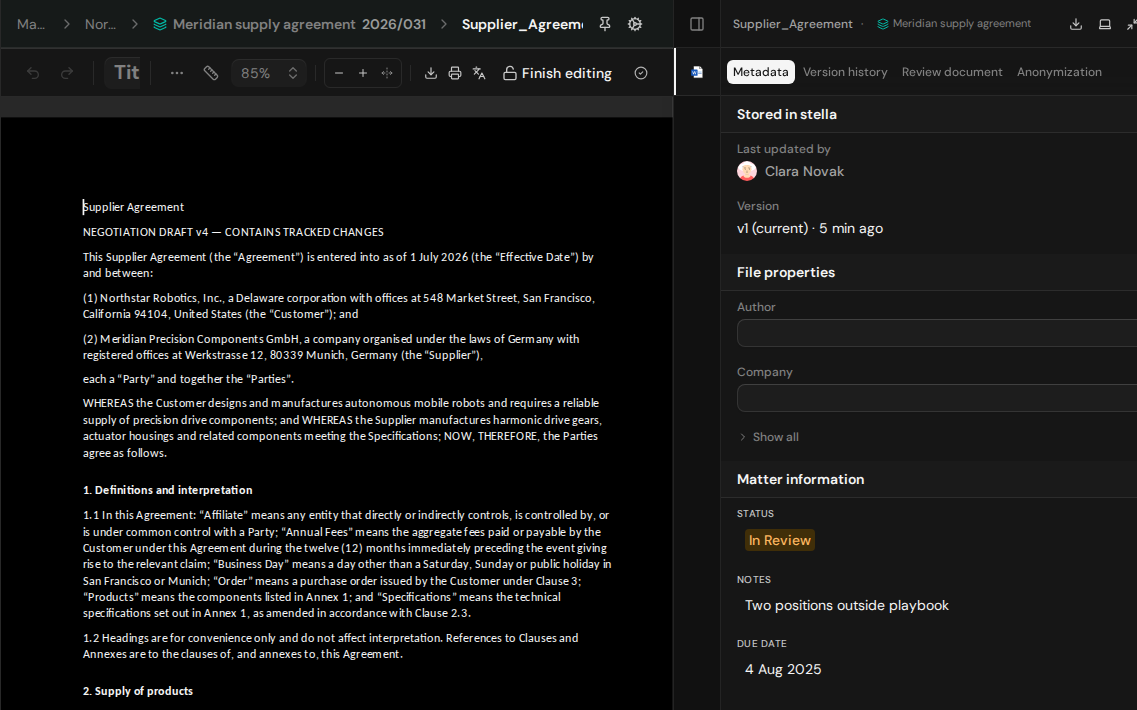
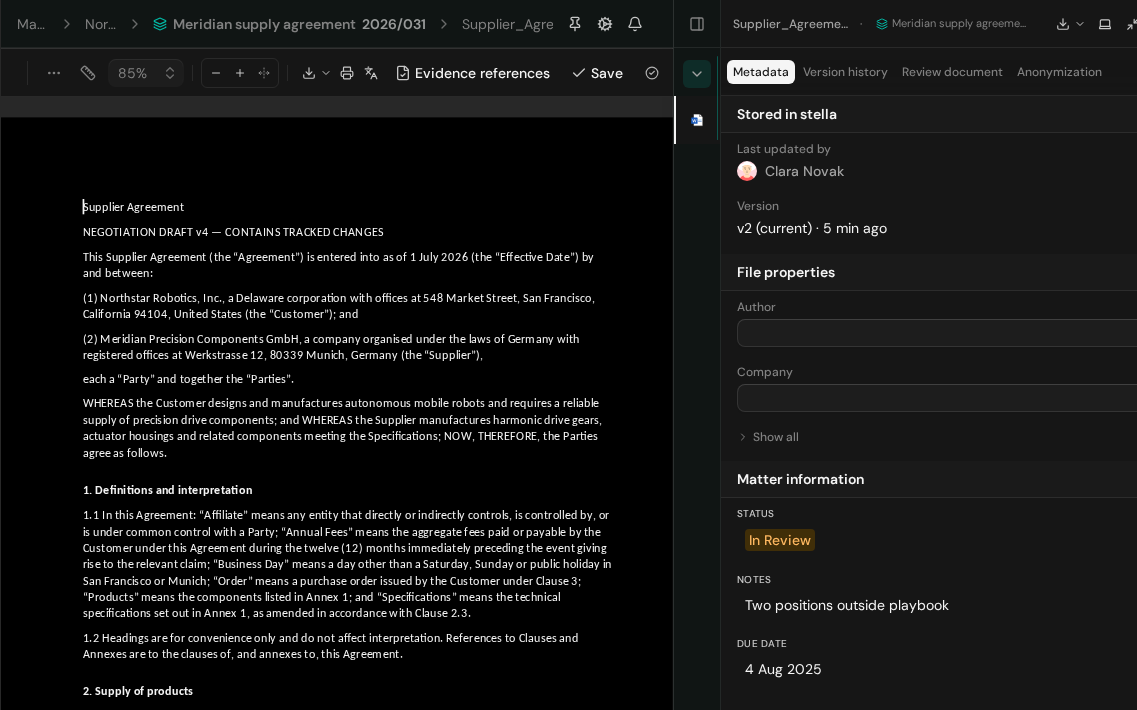
fix: unify matter document chrome (#3317)
## Summary\n\n- apply the active matter tint consistently across the top
bar, navigation rail, desktop inspector, and mobile inspector portal\n-
preserve that tint on maximized matter-chat routes without adding a
workspace request\n- widen and neutralize the docked document-chat veil
so it feathers into page content and reaches the viewport bottom\n-
update the deterministic dark editor screenshot for the chrome treatment

diff --git a/apps/web/src/routes/_protected.tsx b/apps/web/src/routes/_protected.tsx
@@ -6,7 +6,7 @@ import {
   useRef,
   useState,
 } from "react";
-import type { MouseEvent } from "react";
+import type { CSSProperties, MouseEvent } from "react";
 
 import { useHotkey } from "@tanstack/react-hotkeys";
 import {
@@ -48,6 +48,7 @@ import "@/features/inbox/signal-inspector-registration";
 import "@/features/statutes/provision-inspector-registration";
 import { ApiVersionMismatchBanner } from "@/components/api-version-mismatch-banner";
 import { AppSidebar } from "@/components/app-sidebar";
+import { resolveSidebarWorkspaceId } from "@/components/app-sidebar.logic";
 import { AppBreadcrumbs } from "@/components/breadcrumbs/app-breadcrumbs";
 import { ChatEditorProvider } from "@/components/chat-editor-provider";
 import { ChatMentionProviders } from "@/components/chat-mention-providers";
@@ -96,7 +97,10 @@ import {
   prefetchRouteQuery,
 } from "@/lib/react-query";
 import { useEffectiveHotkey } from "@/lib/use-effective-shortcuts";
-import { workspaceOptions } from "@/lib/workspaces/queries";
+import {
+  workspaceOptions,
+  workspacesNavigationOptions,
+} from "@/lib/workspaces/queries";
 import { loadAuthContext } from "@/routes/-auth-context";
 import { shouldForceSidebarCollapsed } from "@/routes/-inspector-pane-width";
 
@@ -107,6 +111,11 @@ const LazyInspectorPanel = lazy(
     })),
 );
 
+type MatterChromeStyle = CSSProperties & {
+  "--matter-background-tint": string;
+  "--matter-sidebar-tint": string;
+};
+
 // Visual shell for the inspector rail while the panel chunk is
 // loading. Mirrors the real rail's chrome (top toggle, bottom
 // "new chat") so the rail doesn't render as an empty strip during
@@ -116,14 +125,14 @@ const InspectorRailFallback = () => {
   const t = useTranslations();
 
   return (
-    <div className="bg-background flex h-full border-s shadow-lg">
+    <div className="flex h-full border-s bg-(--matter-background-tint) shadow-lg">
       <WorkspaceEndRail
         chatAction={{
           label: t("chat.newChat"),
           reason: t("common.loading"),
           status: "unavailable",
         }}
-        className="h-full"
+        className="h-full bg-(--matter-sidebar-tint)"
         label={t("inspector.title")}
         topAction={
           <span
@@ -330,7 +339,31 @@ function ProtectedComponent() {
     from: "/_protected/workspaces/$workspaceId",
     shouldThrow: false,
   });
-  const activeWorkspaceId = workspaceMatch?.params.workspaceId;
+  const workspaceChatMatch = useMatch({
+    from: "/_protected/chat/workspaces/$workspaceId/$threadId",
+    shouldThrow: false,
+  });
+  const activeWorkspaceId = resolveSidebarWorkspaceId({
+    chatWorkspaceId: workspaceChatMatch?.params.workspaceId,
+    workspaceId: workspaceMatch?.params.workspaceId,
+  });
+  const { data: workspaceNavigation } = useChromeQuery(
+    workspacesNavigationOptions(inspectorBroadcastOrganizationId),
+  );
+  const activeWorkspace = workspaceNavigation?.workspaces.find(
+    ({ id }) => id === activeWorkspaceId,
+  );
+  const activeMatterColor = activeWorkspaceId
+    ? resolveMatterColor(activeWorkspaceId, activeWorkspace?.color ?? null)
+    : null;
+  const matterChromeStyle: MatterChromeStyle = {
+    "--matter-background-tint": activeMatterColor
+      ? `color-mix(in srgb, ${activeMatterColor} 2%, var(--background))`
+      : "var(--background)",
+    "--matter-sidebar-tint": activeMatterColor
+      ? `color-mix(in srgb, ${activeMatterColor} 2%, var(--sidebar))`
+      : "var(--sidebar)",
+  };
   const inspectorPaneOpen = useInspectorTabsStore(
     (state) => state.tabs.length > 0 && !state.minimized,
   );
@@ -386,30 +419,36 @@ function ProtectedComponent() {
       key={`${inspectorBroadcastOrganizationId}:${inspectorBroadcastUserId}`}
       user={analyticsUser}
     >
-      <SidebarProvider forceCollapsed={forceSidebarCollapsed}>
-        <SidebarToggleHotkey />
-        <ChatMentionProviders>
-          <AIAvailabilityProvider>
-            <ChatEditorProvider>
-              <GlobalChatMentionRegistration />
-              <DragAndDropLiveRegion />
-              <WorkspaceFrame
-                composition="host-responsive"
-                endDock={<WorkspaceInspectorSidePanel />}
-                navigation={{ content: <AppSidebar />, mode: "responsive" }}
-                topBar={() => <ProtectedContent />}
-              >
-                <Outlet />
-              </WorkspaceFrame>
-              <CreateMatterDialog />
-              <AttachedTemplateUploadDialog />
-              <DocumentReferenceUploadDialog />
-              <ShortcutEchoHud />
-              <KeyboardShortcutsDialog />
-            </ChatEditorProvider>
-          </AIAvailabilityProvider>
-        </ChatMentionProviders>
-      </SidebarProvider>
+      <div className="contents" style={matterChromeStyle}>
+        <SidebarProvider forceCollapsed={forceSidebarCollapsed}>
+          <SidebarToggleHotkey />
+          <ChatMentionProviders>
+            <AIAvailabilityProvider>
+              <ChatEditorProvider>
+                <GlobalChatMentionRegistration />
+                <DragAndDropLiveRegion />
+                <WorkspaceFrame
+                  composition="host-responsive"
+                  endDock={
+                    <WorkspaceInspectorSidePanel
+                      matterChromeStyle={matterChromeStyle}
+                    />
+                  }
+                  navigation={{ content: <AppSidebar />, mode: "responsive" }}
+                  topBar={() => <ProtectedContent />}
+                >
+                  <Outlet />
+                </WorkspaceFrame>
+                <CreateMatterDialog />
+                <AttachedTemplateUploadDialog />
+                <DocumentReferenceUploadDialog />
+                <ShortcutEchoHud />
+                <KeyboardShortcutsDialog />
+              </ChatEditorProvider>
+            </AIAvailabilityProvider>
+          </ChatMentionProviders>
+        </SidebarProvider>
+      </div>
     </AuthenticatedUserProvider>
   );
 }
@@ -504,9 +543,6 @@ function ProtectedContent() {
     ...workspaceOptions(workspaceId ?? ""),
     enabled: !!workspaceId,
   });
-  const matterColor = workspaceId
-    ? resolveMatterColor(workspaceId, workspace?.color ?? null)
-    : null;
   const chromeActions = (
     <div
       className="ms-auto flex shrink-0 items-center gap-0.5"
@@ -564,19 +600,7 @@ function ProtectedContent() {
     <>
       <ApiVersionMismatchBanner />
       <SelfhostUpdateBanner />
-      <header
-        className={cn(
-          "flex h-12 shrink-0 items-center gap-2 overflow-hidden border-b px-4",
-          !matterColor && "bg-sidebar",
-        )}
-        style={
-          matterColor
-            ? {
-                backgroundColor: `color-mix(in srgb, ${matterColor} 2%, transparent)`,
-              }
-            : undefined
-        }
-      >
+      <header className="border-sidebar-border flex h-12 shrink-0 items-center gap-2 overflow-hidden border-b bg-(--matter-sidebar-tint) px-4">
         {isMobile && (
           <>
             <SidebarTrigger className="-ms-1" />
@@ -684,7 +708,11 @@ const getInspectorTabWorkspaceId = (
  * viewport height and the topbar doesn't need to leave room for
  * inspector chrome.
  */
-function WorkspaceInspectorSidePanel() {
+function WorkspaceInspectorSidePanel({
+  matterChromeStyle,
+}: {
+  matterChromeStyle: MatterChromeStyle;
+}) {
   const t = useTranslations();
   const { isMobile } = useSidebar();
   const projectMatch = useMatch({
@@ -783,6 +811,7 @@ function WorkspaceInspectorSidePanel() {
           className="h-dvh w-full max-w-none border-0 p-0 md:hidden"
           showCloseButton={false}
           side="inline-end"
+          style={matterChromeStyle}
         >
           <SheetHeader className="sr-only">
             <SheetTitle>{t("inspector.title")}</SheetTitle>

diff --git a/apps/web/src/components/app-sidebar.tsx b/apps/web/src/components/app-sidebar.tsx
@@ -132,7 +132,6 @@ import { detached } from "@/lib/detached";
 import { formatHotkeyForPlatform, NAV_KEY } from "@/lib/hotkeys";
 import { inboxCountOptions } from "@/lib/inbox/queries";
 import { knowledgeSections } from "@/lib/knowledge/navigation";
-import { resolveMatterColor } from "@/lib/matter-colors";
 import { usePinnedStore } from "@/lib/pinned-store";
 import { formatFullTimestamp, formatRelativeTime } from "@/lib/relative-time";
 import type { EntityKind } from "@/lib/types";
@@ -231,17 +230,6 @@ export const AppSidebar = (props: AppSidebarProps) => {
     chatWorkspaceId: workspaceChatMatch?.params.workspaceId,
     workspaceId: workspaceMatch?.params.workspaceId,
   });
-  const activeWorkspace = workspaces?.find((ws) => ws.id === activeWorkspaceId);
-  const activeMatterColor =
-    activeWorkspaceId && activeWorkspace
-      ? resolveMatterColor(activeWorkspaceId, activeWorkspace.color)
-      : null;
-  const sidebarStyle: AppSidebarStyle | undefined = activeMatterColor
-    ? {
-        "--matter-sidebar-tint": `color-mix(in srgb, ${activeMatterColor} 2%, var(--sidebar))`,
-      }
-    : undefined;
-
   const handleCreateWorkspace = () => {
     if (!canCreateMatter) {
       return;
@@ -561,15 +549,12 @@ export const AppSidebar = (props: AppSidebarProps) => {
         // translucent veil + backdrop-blur-md instead of the solid
         // sidebar fill so the app chrome reads as one system. The
         // opaque-leaning fallback keeps contrast where backdrop-filter
-        // is unsupported. The matter tint keeps the identical alpha so
-        // accent-tinted sidebars stay in the same language.
-        "[&_[data-slot=sidebar-inner]]:bg-sidebar/80 supports-[backdrop-filter]:[&_[data-slot=sidebar-inner]]:bg-sidebar/60 [&_[data-slot=sidebar-inner]]:backdrop-blur-md",
-        activeMatterColor &&
-          "[&_[data-slot=sidebar-inner]]:bg-(--matter-sidebar-tint)/80 supports-[backdrop-filter]:[&_[data-slot=sidebar-inner]]:bg-(--matter-sidebar-tint)/60",
+        // is unsupported.
+        "[&_[data-slot=sidebar-inner]]:bg-(--matter-sidebar-tint)/80 [&_[data-slot=sidebar-inner]]:backdrop-blur-md supports-[backdrop-filter]:[&_[data-slot=sidebar-inner]]:bg-(--matter-sidebar-tint)/60",
         props.className,
       )}
       collapsible="icon"
-      style={{ ...sidebarStyle, ...props.style }}
+      style={props.style}
     >
       {/* Stella logo header */}
       <SidebarHeader className="h-12 border-b p-0">
@@ -910,10 +895,6 @@ type PendingEntityDrop = {
 };
 
 type AppSidebarProps = React.ComponentProps<typeof Sidebar>;
-type AppSidebarStyle = React.CSSProperties & {
-  "--matter-sidebar-tint"?: string;
-};
-
 type MatterItemProps = {
   activeOrganizationId: string;
   workspace: MatterIdentity & {

diff --git a/apps/web/src/components/chat/composer-veil.tsx b/apps/web/src/components/chat/composer-veil.tsx
@@ -1,5 +1,8 @@
 import { cn } from "@stll/ui/utils";
 
+const PANE_MASK_IMAGE =
+  "linear-gradient(to right, transparent, black clamp(0.75rem, calc((100% - 35rem) / 2), 12.5rem), black calc(100% - clamp(0.75rem, calc((100% - 35rem) / 2), 12.5rem)), transparent), linear-gradient(to bottom, transparent, black 3rem)";
+
 /**
  * The one glass veil rendered behind a chat composer stack (input +
  * status row) wherever the composer floats over live content — the
@@ -17,7 +20,11 @@ import { cn } from "@stll/ui/utils";
  * veil absolutely fills that parent at `-z-10`, behind its siblings.
  * `rounded` is the compact tray treatment used by the main chat. `pane`
  * feathers across the full host width for document overlays, avoiding a
- * visible rounded blur band while keeping text beneath the controls quiet.
+ * visible rounded blur band while keeping text beneath the controls quiet. Its
+ * mask feathers across its top and sides; it stays covered through the host's
+ * bottom edge so the page does not return to sharp focus below the controls.
+ * The tint is deliberately light when backdrop-filter works: blur quiets page
+ * text without painting a conspicuous patch over an otherwise empty canvas.
  */
 export const ComposerVeil = ({
   className,
@@ -36,9 +43,17 @@ export const ComposerVeil = ({
         variant === "rounded" &&
           "bg-background/75 supports-[backdrop-filter]:bg-background/40 inset-0 rounded-3xl [mask-image:linear-gradient(to_bottom,transparent,black_2rem)] backdrop-blur-xl",
         variant === "pane" &&
-          "via-background/65 to-background/95 supports-[backdrop-filter]:via-background/50 supports-[backdrop-filter]:to-background/85 inset-x-0 -top-5 -bottom-3.5 bg-linear-to-b from-transparent [mask-image:linear-gradient(to_bottom,transparent,black_1.5rem)] backdrop-blur-sm",
+          "via-background/45 to-background/75 supports-[backdrop-filter]:via-background/15 supports-[backdrop-filter]:to-background/30 inset-x-0 -top-12 -bottom-3.5 bg-linear-to-b from-transparent [mask-composite:intersect] backdrop-blur-md backdrop-saturate-50",
         className,
       )}
+      style={
+        variant === "pane"
+          ? {
+              maskImage: PANE_MASK_IMAGE,
+              WebkitMaskImage: PANE_MASK_IMAGE,
+            }
+          : undefined
+      }
     />
   );
 };

diff --git a/apps/web/src/components/ai-suggestions/host.tsx b/apps/web/src/components/ai-suggestions/host.tsx
@@ -77,7 +77,10 @@ import { detached } from "@/lib/detached";
 import type { ReservedChatCommandContext } from "@/lib/reserved-chat-commands";
 import { isValueTypeKind, VALUE_TYPE_META } from "@/lib/value-types";
 
-import { DOCKED_COMPOSER_WIDTH_CLASS } from "./composer-geometry";
+import {
+  DOCKED_COMPOSER_VEIL_WIDTH_CLASS,
+  DOCKED_COMPOSER_WIDTH_CLASS,
+} from "./composer-geometry";
 import { shouldShowPromptBarBusyPlaceholder } from "./host.logic";
 import type { FileAIChatStatus } from "./types";
 
@@ -451,7 +454,10 @@ export const DockedComposer = ({ chips, bar, dock }: DockedComposerProps) => (
       OVERLAY_LAYER_CLASS_NAMES.chrome,
     )}
   >
-    <ComposerVeil variant="pane" />
+    <ComposerVeil
+      className={cn("mx-auto", DOCKED_COMPOSER_VEIL_WIDTH_CLASS)}
+      variant="pane"
+    />
     {chips !== undefined && (
       <div
         className={cn(

diff --git a/apps/web/src/components/ai-suggestions/composer-geometry.ts b/apps/web/src/components/ai-suggestions/composer-geometry.ts
@@ -4,3 +4,12 @@
  * implementation into the editor bundle just to inherit its geometry.
  */
 export const DOCKED_COMPOSER_WIDTH_CLASS = "w-[min(560px,calc(100%-2rem))]";
+
+/**
+ * The veil carries up to a 200px feather outside each edge of the 560px
+ * composer.
+ * Its fully opaque center therefore covers the complete composer/status stack
+ * instead of fading through the controls themselves.
+ */
+export const DOCKED_COMPOSER_VEIL_WIDTH_CLASS =
+  "w-[min(960px,calc(100%-0.5rem))]";

diff --git a/apps/web/src/components/inspector/inspector-panel.tsx b/apps/web/src/components/inspector/inspector-panel.tsx
@@ -488,7 +488,7 @@ export const InspectorPanel = ({ workspaceId }: InspectorPanelProps) => {
 
   return (
     <RenderStormRegion name="inspector">
-      <div className="bg-background flex h-full shadow-lg">
+      <div className="flex h-full bg-(--matter-background-tint) shadow-lg">
         <div className="hidden md:contents">
           <InspectorRail
             activeId={activeId}

diff --git a/apps/web/src/components/inspector/inspector-rail.tsx b/apps/web/src/components/inspector/inspector-rail.tsx
@@ -139,7 +139,7 @@ export const InspectorRail = ({
         onActivate: openContextChat,
         status: "enabled",
       }}
-      className="h-full"
+      className="h-full bg-(--matter-sidebar-tint)"
       label={t("inspector.title")}
       overlay={
         <>
